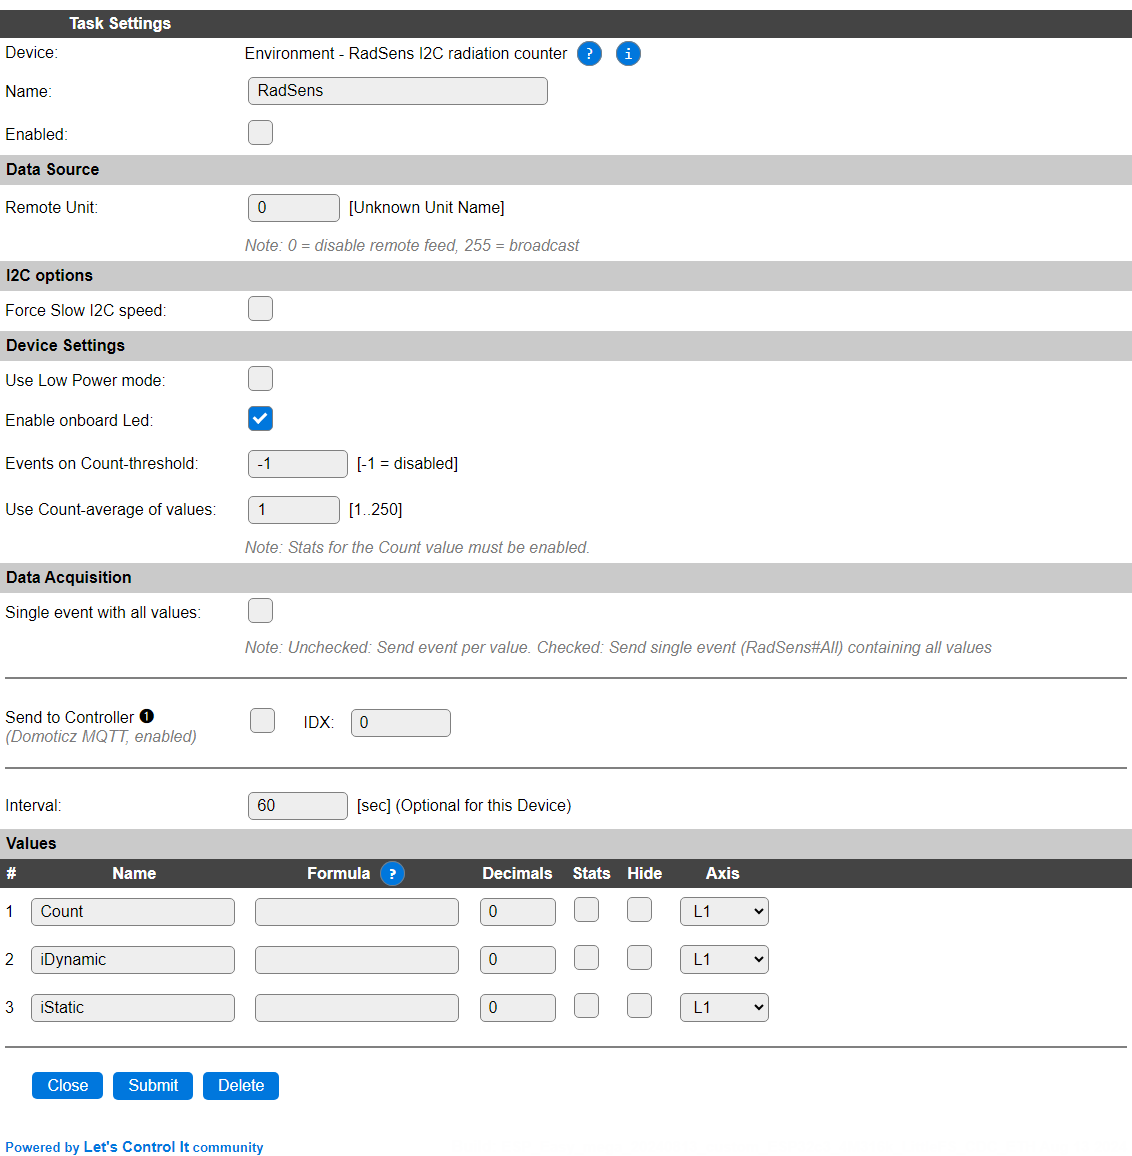
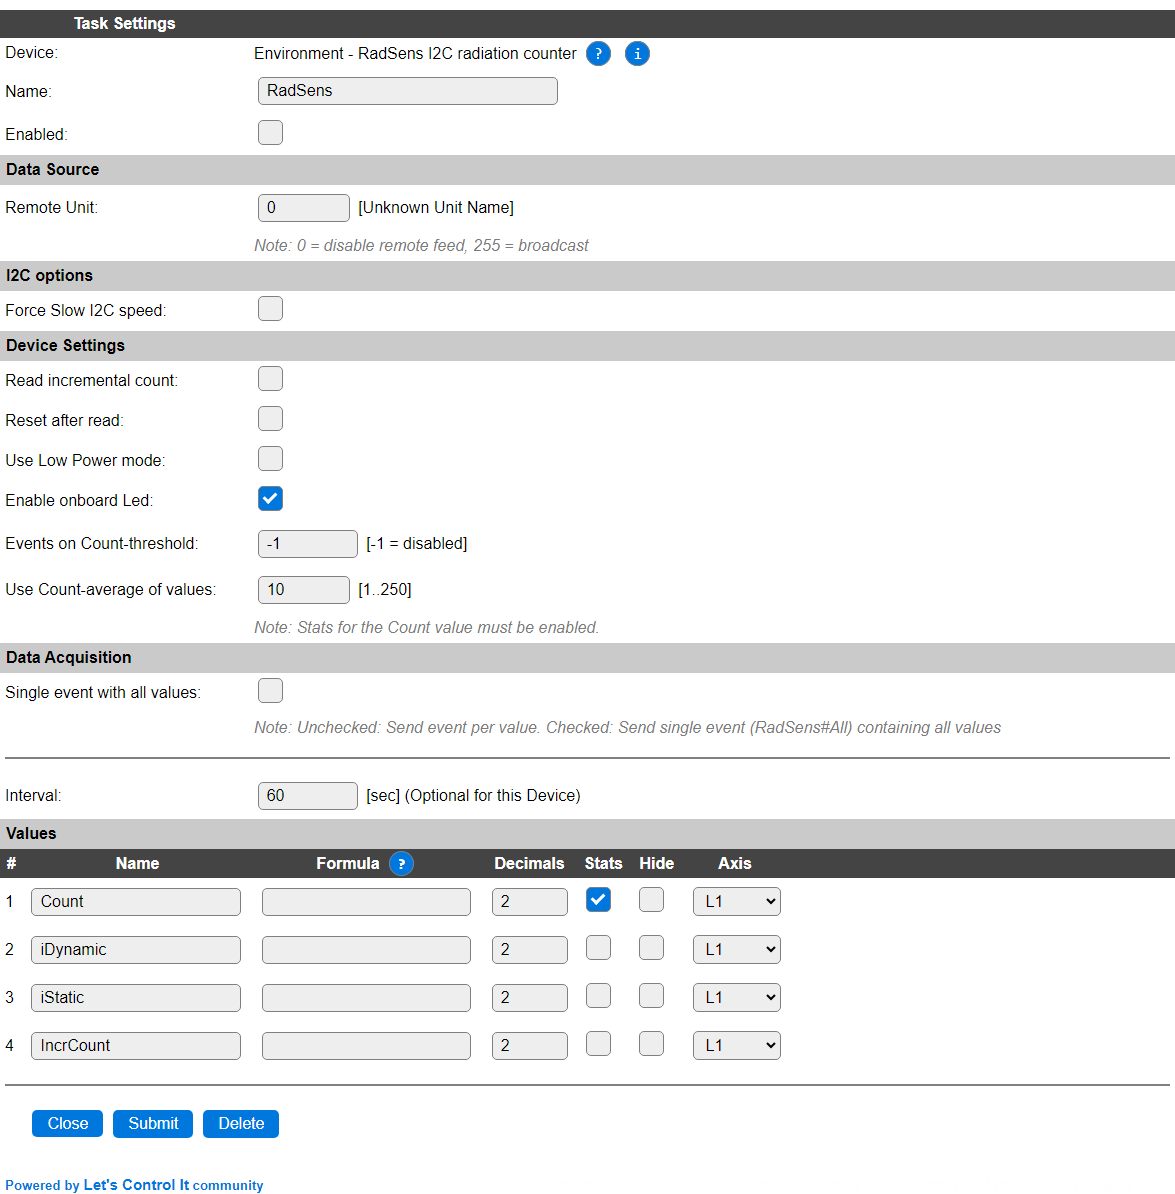
[P163] Update documentation

diff --git a/docs/source/Plugin/P163.rst b/docs/source/Plugin/P163.rst
@@ -58,6 +58,10 @@ Currently, only the default I2C address of ``0x66`` is supported. Multiple senso
 Device Settings
 ^^^^^^^^^^^^^^^
 
+* **Read incremental count**: If you want to see the incrementing count over a certain timespan, you can use the Incremental Count value, and after some time, reset the count using the ``radsens,resetcount`` command. When unchecked the number of impulses since the last read is used.
+
+* **Reset after read**: When checked, the incremental counter is reset after reading the value. This counter can also be cleared via the ``radsens,resetcount`` command.
+
 * **Low-power mode**: To use the low power mode of the board, this option can be checked.
 
 * **Enable onboard Led**: By default, the onboard Led of the sensor board shows an indication of the impulses counted. This setting can be used to turn the Led off. (On by default).
@@ -78,11 +82,11 @@ This group of settings, **Single event with all values**, **Send to Controller**
 Values
 ^^^^^^
 
-The plugin provides measurements ``Count`` in imposes/microRad, ``iDynamic`` the dynamic radiation intensity \< 123 sec., and ``iStatic`` the static radiation intensity.
+The plugin provides measurements ``Count`` in impulses/microRad, ``iDynamic`` the dynamic radiation intensity \< 123 sec., ``iStatic`` the static radiation intensity, and ``IncrCount``, the incremented counter value since the last reset or restart of the plugin.
 
 Per Value is a **Stats** checkbox available, that when checked, gathers the data and presents recent data in a graph, as described here: :ref:`Task Value Statistics:  <Task Value Statistics>`
 
-To use the Count-average as threshold, the Stats for Count has to be enabled.
+To use the Count-average as threshold, the Stats option for ``Count`` has to be enabled.
 
 Commands available
 ^^^^^^^^^^^^^^^^^^
